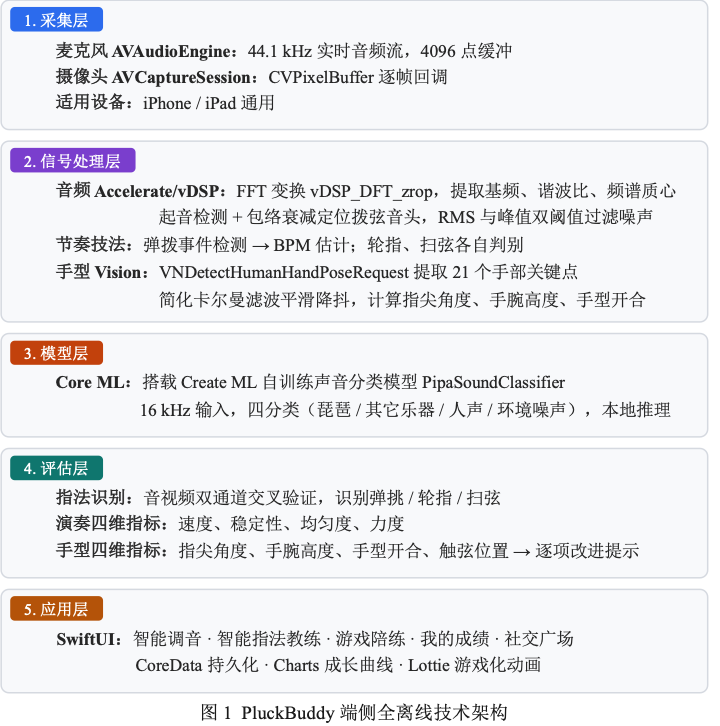
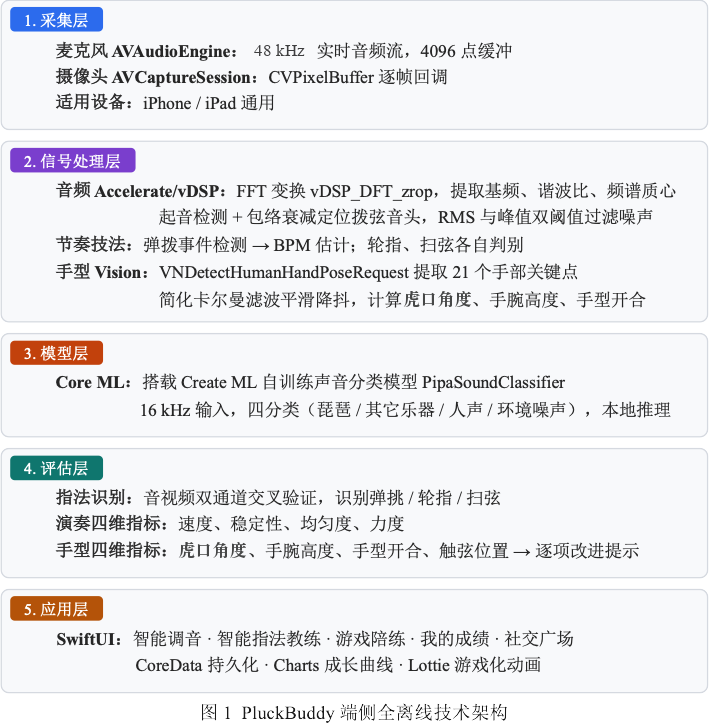
fix: clear 13 on-device build warnings, add the 2026-10-02 change entry
- Unify closure capture semantics with Task [weak self] plus guard let self,
  8 sites.
- Read startTime on the MainActor inside timer callbacks, 3 sites.
- Drop the unused downCount and upCount from SweepDetector, 2 sites.
- Add a 2026-10-02 entry to the README and align the architecture diagram and
  the sample-rate figures with the code.

diff --git a/FlowerViewModel.swift b/FlowerViewModel.swift
@@ -66,7 +66,8 @@ class FlowerViewModel: ObservableObject {
     
     // MARK: - Lifecycle
     func startPractice() {
-        Task {
+        Task { [weak self] in
+            guard let self = self else { return }
             print("🌸 开始轮指练习...")
             
             // 请求麦克风权限
@@ -86,16 +87,16 @@ class FlowerViewModel: ObservableObject {
             print("✅ 麦克风权限已授予")
             
             // 初始化轮指检测器
-            rollDetector = RollDetector(sampleRate: 44100.0)
+            rollDetector = RollDetector(sampleRate: 48000.0)
             
             rollDetector?.onRollDetected = { [weak self] event in
-                Task { @MainActor in
+                Task { @MainActor [weak self] in
                     self?.handleRollEvent(event)
                 }
             }
             
             rollDetector?.onRollSequenceComplete = { [weak self] sequence in
-                Task { @MainActor in
+                Task { @MainActor [weak self] in
                     self?.handleSequenceComplete(sequence)
                 }
             }
@@ -436,8 +437,8 @@ class FlowerViewModel: ObservableObject {
     // MARK: - Timer Management
     private func startDurationTimer() {
         durationTimer = Timer.scheduledTimer(withTimeInterval: 0.1, repeats: true) { [weak self] _ in
-            guard let self = self, let start = self.startTime else { return }
-            Task { @MainActor in
+            Task { @MainActor [weak self] in
+                guard let self = self, let start = self.startTime else { return }
                 self.sessionDuration = Date().timeIntervalSince(start)
                 
                 // 检查是否到达目标时长

diff --git a/PluckBuddy/RunningViewModel.swift b/PluckBuddy/RunningViewModel.swift
@@ -91,7 +91,8 @@ class RunningViewModel: ObservableObject {
     
     // MARK: - Lifecycle
     func startPractice() {
-        Task {
+        Task { [weak self] in
+            guard let self = self else { return }
             print("🎵 开始练习...")
             
             // 请求麦克风权限
@@ -111,9 +112,9 @@ class RunningViewModel: ObservableObject {
             print("✅ 麦克风权限已授予")
             
             // 初始化节奏检测器
-            rhythmDetector = RhythmDetector(sampleRate: 44100.0)
+            rhythmDetector = RhythmDetector(sampleRate: 48000.0)
             rhythmDetector?.onPluckDetected = { [weak self] event in
-                Task { @MainActor in
+                Task { @MainActor [weak self] in
                     self?.handlePluckEvent(event)
                 }
             }
@@ -361,8 +362,8 @@ class RunningViewModel: ObservableObject {
     // MARK: - Timer Management
     private func startDurationTimer() {
         durationTimer = Timer.scheduledTimer(withTimeInterval: 0.1, repeats: true) { [weak self] _ in
-            guard let self = self, let start = self.startTime else { return }
-            Task { @MainActor in
+            Task { @MainActor [weak self] in
+                guard let self = self, let start = self.startTime else { return }
                 self.sessionDuration = Date().timeIntervalSince(start)
                 
                 // 检查是否到达目标时长

diff --git a/PluckBuddy/WaveViewModel.swift b/PluckBuddy/WaveViewModel.swift
@@ -60,7 +60,8 @@ class WaveViewModel: ObservableObject {
     
     // MARK: - Lifecycle
     func startPractice() {
-        Task {
+        Task { [weak self] in
+            guard let self = self else { return }
             // 请求麦克风权限
             audioManager = AudioManager.shared
             guard let manager = audioManager else { return }
@@ -72,10 +73,10 @@ class WaveViewModel: ObservableObject {
             }
             
             // 初始化扫弦检测器
-            sweepDetector = SweepDetector(sampleRate: 44100.0)
+            sweepDetector = SweepDetector(sampleRate: 48000.0)
             
             sweepDetector?.onSweepDetected = { [weak self] event in
-                Task { @MainActor in
+                Task { @MainActor [weak self] in
                     self?.handleSweepEvent(event)
                 }
             }

diff --git a/PluckBuddy/SweepDetector.swift b/PluckBuddy/SweepDetector.swift
@@ -26,7 +26,7 @@ class SweepDetector {
     var onSweepDetected: ((SweepEvent) -> Void)?
     
     // MARK: - Initialization
-    init(sampleRate: Double = 44100.0) {
+    init(sampleRate: Double = 48000.0) {
         self.sampleRate = sampleRate
     }
     
@@ -110,10 +110,8 @@ class SweepDetector {
             return .down // 默认向下
         }
         
-        // 统计最近的方向分布
+        // 取最近若干次记录用于方向判定
         let recentDirections = sweepHistory.suffix(5)
-        let downCount = recentDirections.filter { $0.direction == .down }.count
-        let upCount = recentDirections.filter { $0.direction == .up }.count
         
         // 倾向于交替方向
         let lastDirection = recentDirections.last?.direction ?? .down

diff --git a/PluckBuddy/TunerViewModel.swift b/PluckBuddy/TunerViewModel.swift
@@ -74,7 +74,8 @@ class TunerViewModel: ObservableObject {
     
     // MARK: - Lifecycle
     func startListening() {
-        Task {
+        Task { [weak self] in
+            guard let self = self else { return }
             // 请求麦克风权限
             audioManager = AudioManager.shared
             guard let manager = audioManager else { return }
@@ -86,7 +87,7 @@ class TunerViewModel: ObservableObject {
             }
             
             // 初始化音高检测器
-            pitchDetector = PitchDetector(sampleRate: 44100.0, bufferSize: 4096)
+            pitchDetector = PitchDetector(sampleRate: 48000.0, bufferSize: 4096)
             
             // ✅ 初始化专业琵琶声检测器
             dspExtractor = DSPFeatureExtractor(fftSize: 4096)

diff --git a/PluckBuddy/TechniqueCoachViewModel.swift b/PluckBuddy/TechniqueCoachViewModel.swift
@@ -454,8 +454,8 @@ class TechniqueCoachViewModel: ObservableObject {
     
     private func startDurationTimer() {
         durationTimer = Timer.scheduledTimer(withTimeInterval: 0.1, repeats: true) { [weak self] _ in
-            guard let self = self, let start = self.startTime else { return }
-            Task { @MainActor in
+            Task { @MainActor [weak self] in
+                guard let self = self, let start = self.startTime else { return }
                 self.sessionDuration = Date().timeIntervalSince(start)
             }
         }

diff --git a/PluckBuddy/DSPFeatureExtractor.swift b/PluckBuddy/DSPFeatureExtractor.swift
@@ -29,7 +29,7 @@ class DSPFeatureExtractor {
     // MARK: - Initialization
     init(fftSize: Int = 4096) {
         self.fftSize = fftSize
-        self.sampleRate = 44100.0 // ✅ 默认值，会在首次处理时更新
+        self.sampleRate = 48000.0 // ✅ 默认值，会在首次处理时更新
         
         guard let setup = vDSP_DFT_zrop_CreateSetup(
             nil,

diff --git a/PluckBuddy/RhythmDetector.swift b/PluckBuddy/RhythmDetector.swift
@@ -34,7 +34,7 @@ class RhythmDetector {
     var onPluckDetected: ((PluckEvent) -> Void)?
     
     // MARK: - Initialization
-    init(sampleRate: Double = 44100.0) {
+    init(sampleRate: Double = 48000.0) {
         self.sampleRate = sampleRate
         print("🎧 RhythmDetector 初始化（抗噪音版）")
         print("   - 峰值阈值: \(amplitudeThreshold)")

diff --git a/PluckBuddy/PitchDetector.swift b/PluckBuddy/PitchDetector.swift
@@ -31,7 +31,7 @@ class PitchDetector {
     private let historySize = 5 // 保存最近 5 次检测结果
     
     // MARK: - Initialization
-    init(sampleRate: Double = 44100.0, bufferSize: Int = 4096) {
+    init(sampleRate: Double = 48000.0, bufferSize: Int = 4096) {
         self.sampleRate = sampleRate
         self.bufferSize = bufferSize
         

diff --git a/RollDetector.swift b/RollDetector.swift
@@ -29,7 +29,7 @@ class RollDetector {
     var onRollSequenceComplete: ((RollSequence) -> Void)?
     
     // MARK: - Initialization
-    init(sampleRate: Double = 44100.0) {
+    init(sampleRate: Double = 48000.0) {
         self.sampleRate = sampleRate
     }
     
